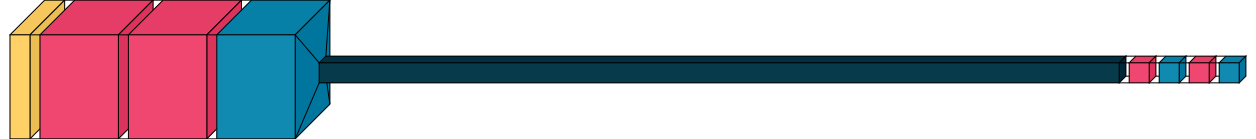
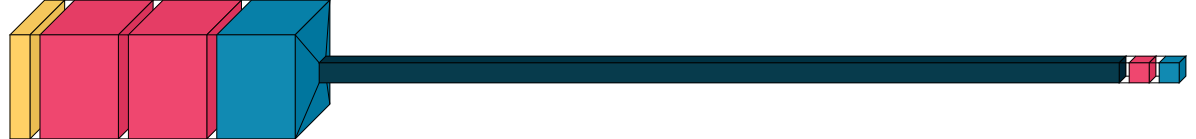
no

diff --git a/numberrec.py b/numberrec.py
@@ -43,8 +43,8 @@ model = Sequential([
     layers.Dense(input_shape=(28, 28), units=784, kernel_initializer=initializers.RandomNormal(stddev=0.01),),
     layers.Activation('tanh'),
     layers.Flatten(), 
-    layers.Dense(5, kernel_initializer=initializers.RandomNormal(stddev=0.01),),
-    layers.Activation('relu'),
+    #layers.Dense(5, kernel_initializer=initializers.RandomNormal(stddev=0.01),),
+    #layers.Activation('relu'),
     layers.Dense(10, kernel_initializer=initializers.RandomNormal(stddev=0.01), ),
     layers.Activation('softmax'),
 ])
@@ -52,7 +52,7 @@ model = Sequential([
 
 model.compile(loss="categorical_crossentropy", optimizer="adamw", metrics=["accuracy"])
 visualkeras.layered_view(model, to_file='model01.png', max_xy=4000, max_z=800)
-model.fit(x_train, y_train, batch_size=128, epochs=50)
+model.fit(x_train, y_train, batch_size=1, epochs=50)
 model.save("model01.keras")
 
 
